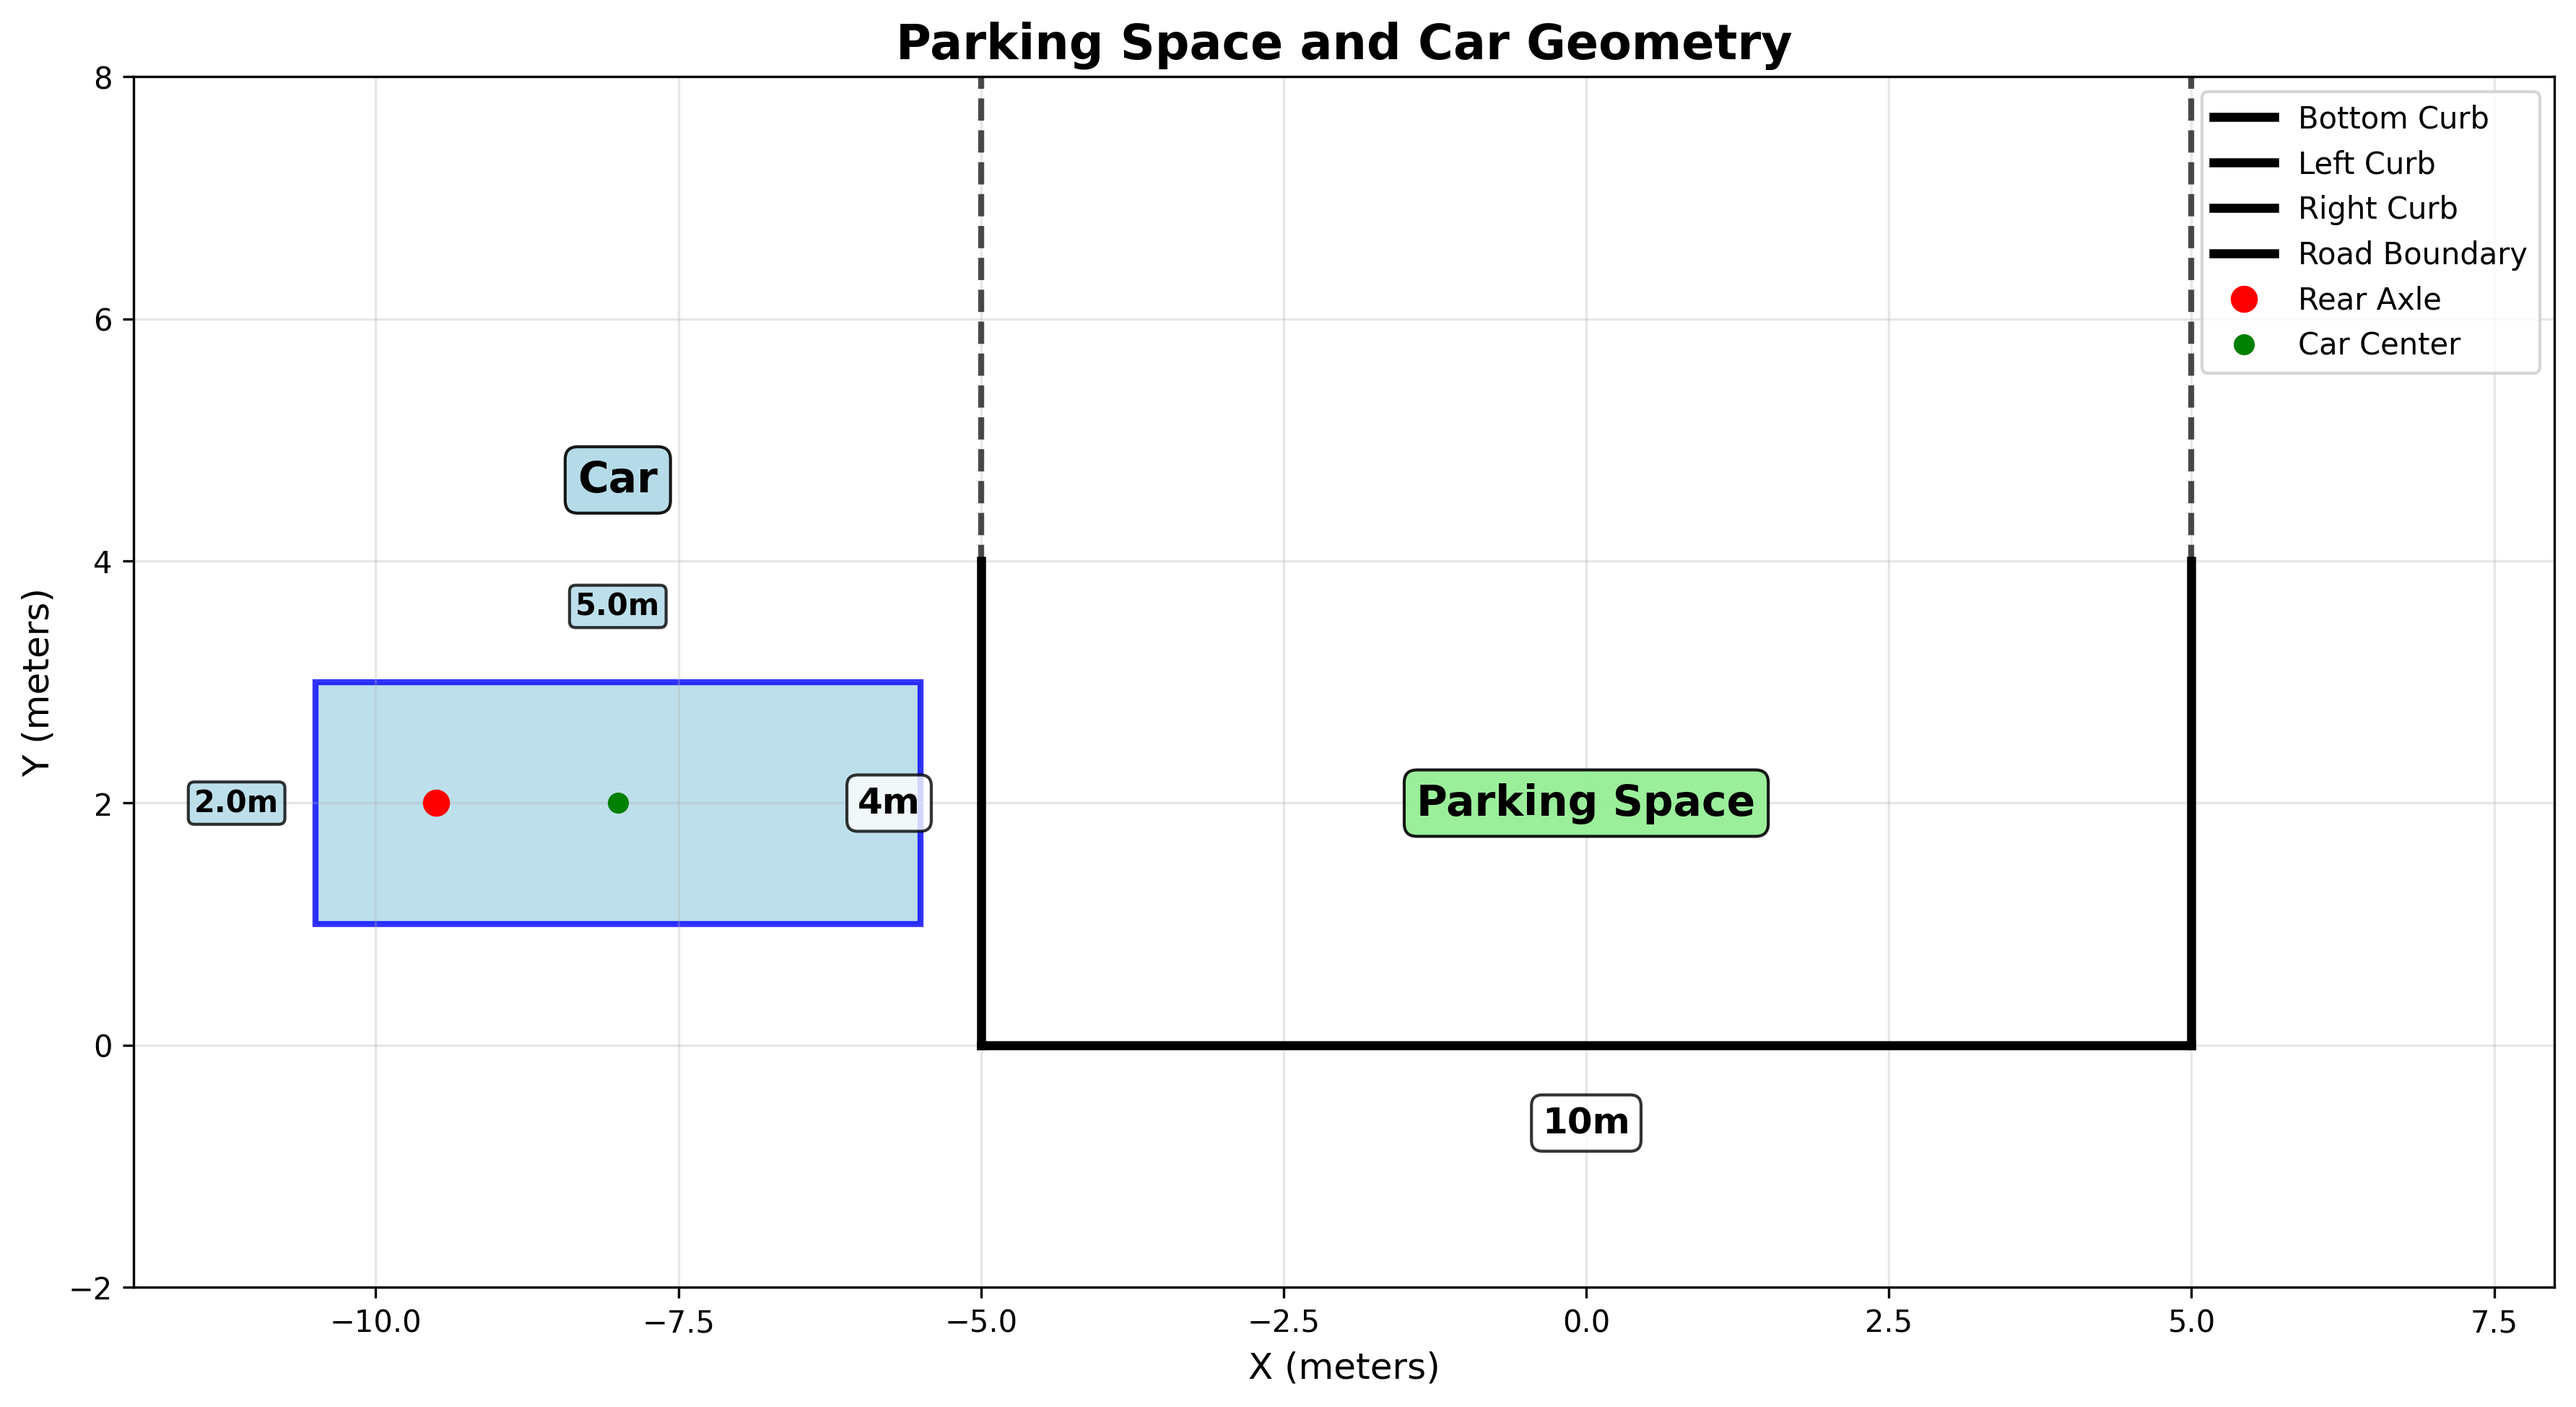
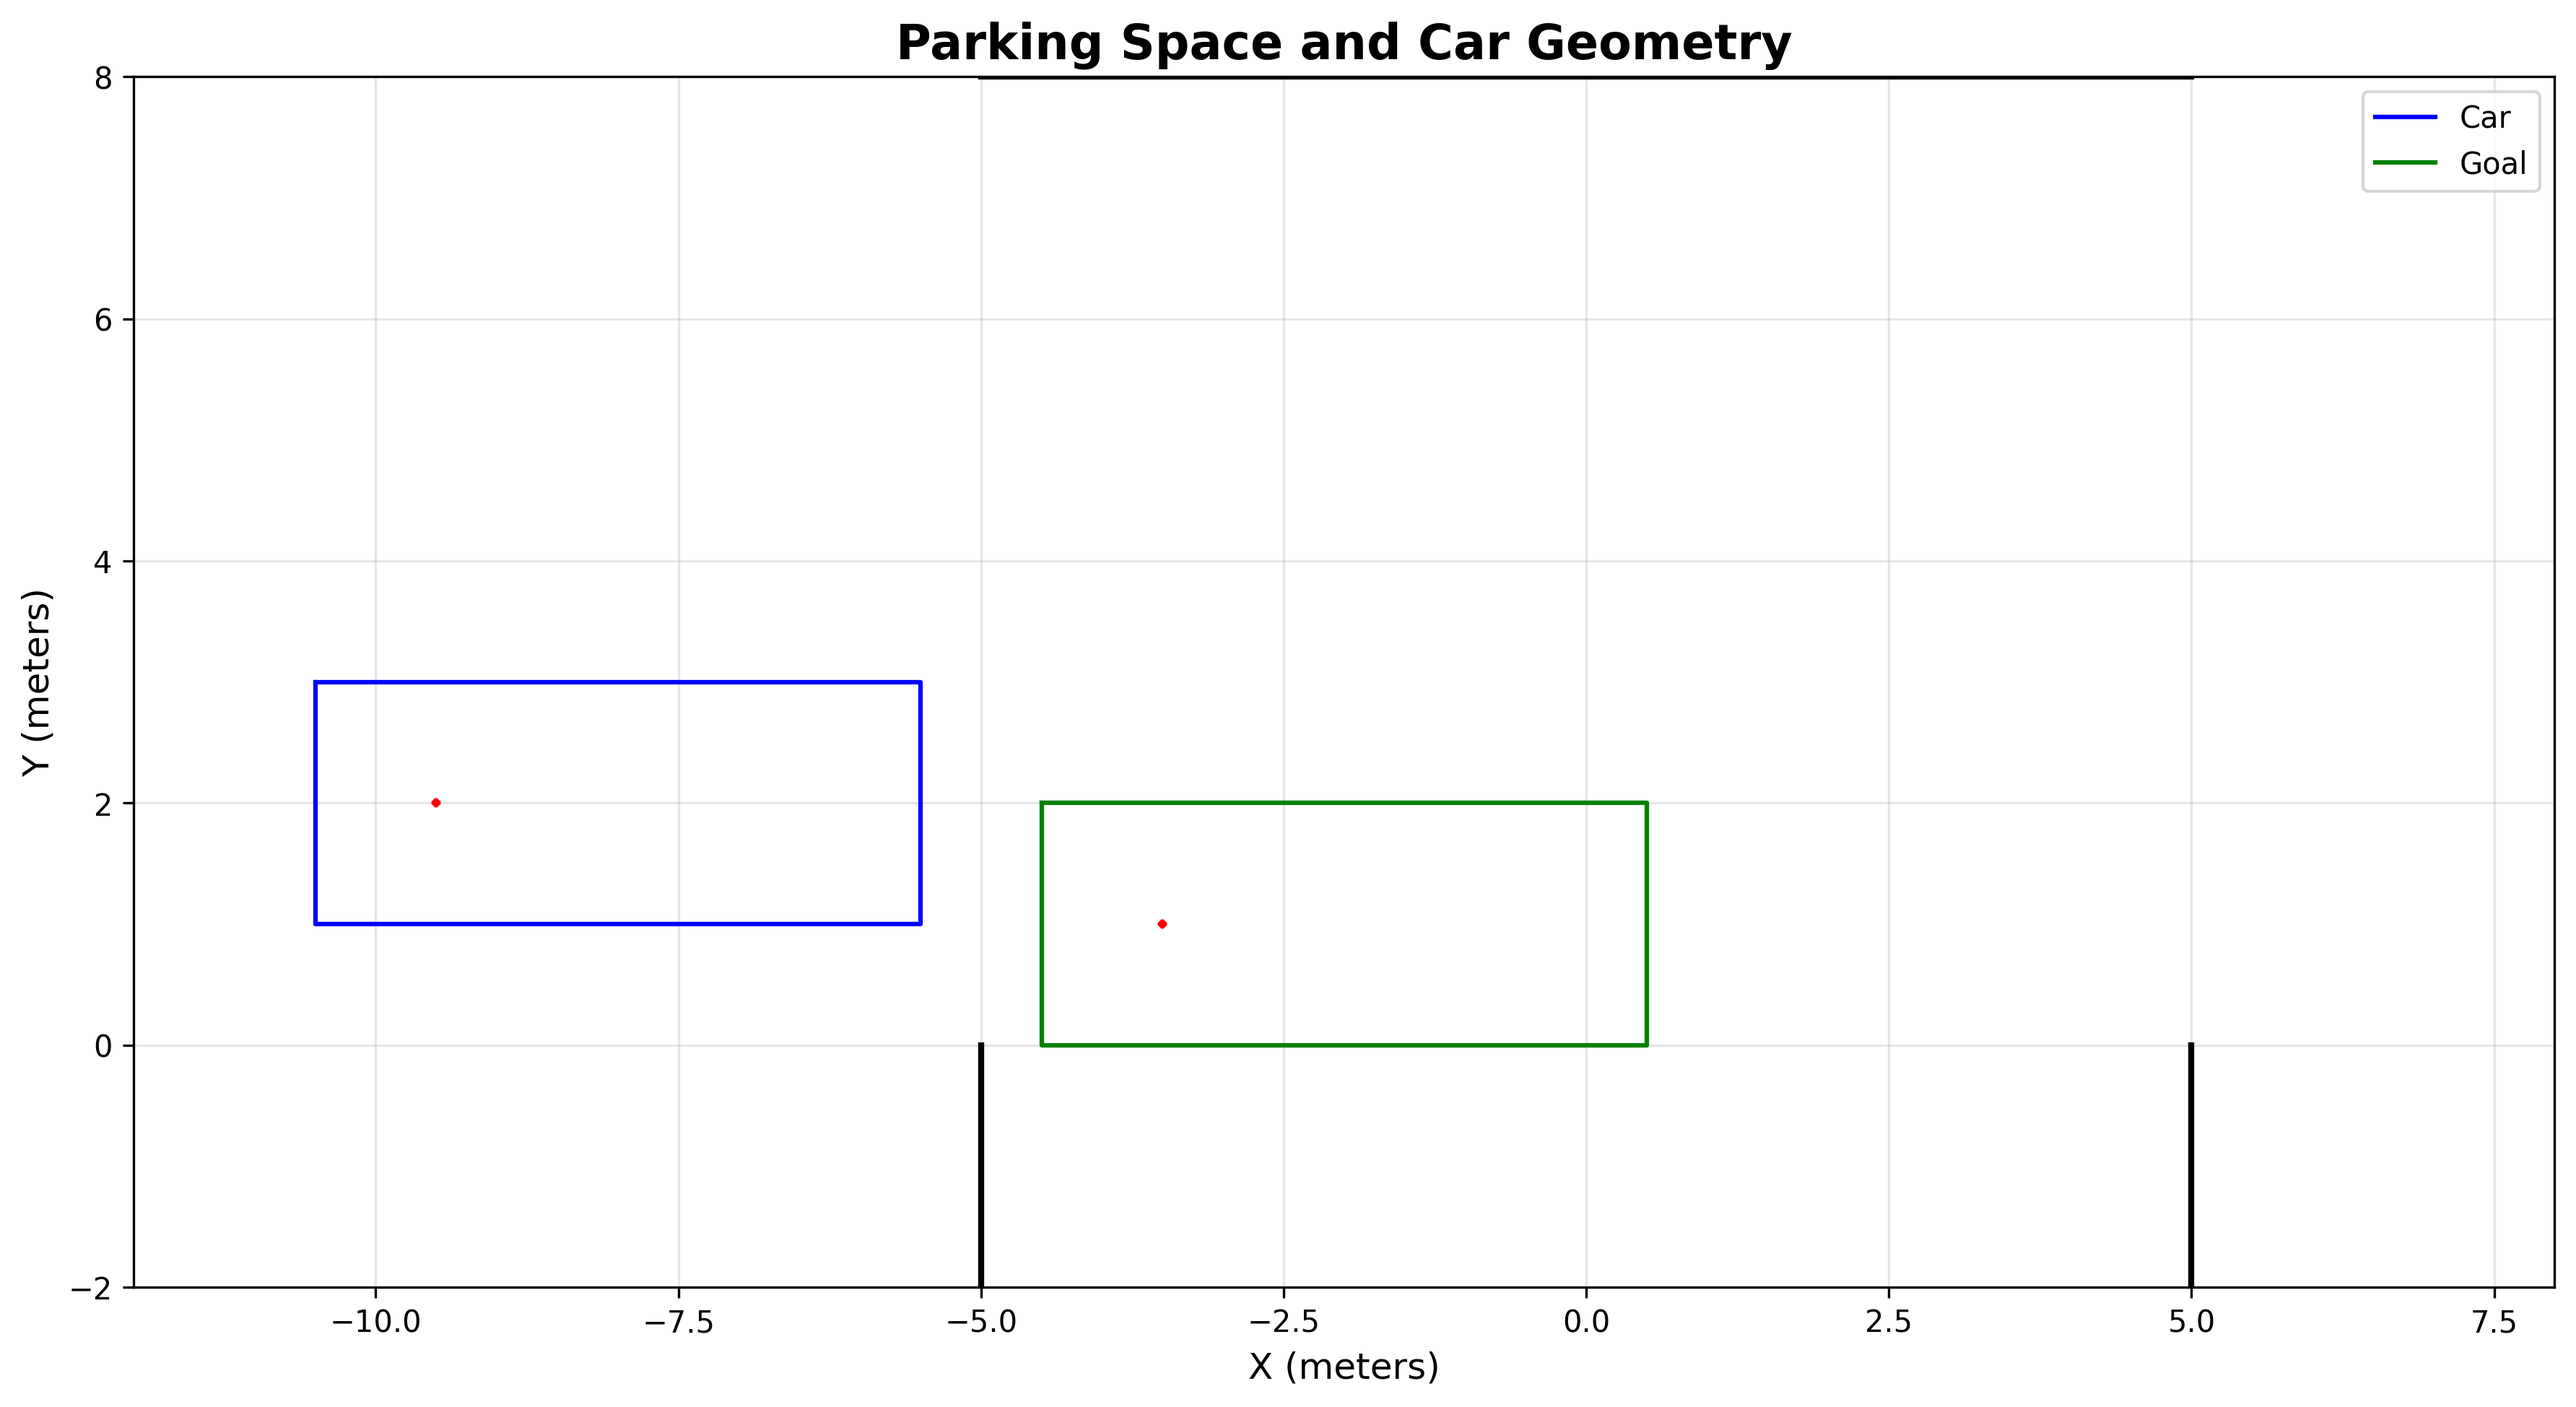
Fix parking diagram to use existing drawing methods
- Remove custom matplotlib drawing code
- Use parking.draw(ax) method from ParkingSpace class
- Use car_state.draw(ax, state='Car', color='blue') method from CarState class
- Add goal state using the same drawing method
- Follow the pattern from bfs_reference_test.py
- Much cleaner and consistent with the codebase

Changed region(s): [[0.0622, 0.4002, 0.8711, 0.8312], [0.84, 0.0616, 0.9955, 0.2771], [0.2178, 0.3079, 0.28, 0.3694]]

diff --git a/scripts/create_parking_diagram.py b/scripts/create_parking_diagram.py
@@ -4,13 +4,11 @@ Create a simple parking space diagram for the README.
 """
 
 import matplotlib.pyplot as plt
-import matplotlib.patches as patches
-from matplotlib.patches import Rectangle, FancyBboxPatch
 import numpy as np
 from src import CarSpecs, CarState, ParkingSpace, Point
 
 def create_parking_diagram():
-    """Create a simple parking space diagram"""
+    """Create a simple parking space diagram using existing drawing methods"""
     fig, ax = plt.subplots(1, 1, figsize=(12, 8))
     
     # Create car specs
@@ -22,86 +20,6 @@ def create_parking_diagram():
     # Create parking space
     parking = ParkingSpace(start=Point(-5, 0), width=4, length=10)
     
-    # Draw parking space boundaries
-    # Bottom curb (parking space boundary)
-    ax.plot([parking.start.x, parking.start.x + parking.length], 
-            [parking.start.y, parking.start.y], 'k-', linewidth=3, label='Bottom Curb')
-    
-    # Left curb
-    ax.plot([parking.start.x, parking.start.x], 
-            [parking.start.y, parking.start.y + parking.width], 'k-', linewidth=3, label='Left Curb')
-    
-    # Right curb
-    ax.plot([parking.start.x + parking.length, parking.start.x + parking.length], 
-            [parking.start.y, parking.start.y + parking.width], 'k-', linewidth=3, label='Right Curb')
-    
-    # Top curb (road boundary)
-    ax.plot([parking.start.x - parking.baseline_left, parking.start.x + parking.length + parking.baseline_right], 
-            [parking.start.y + parking.width + parking.road_width, parking.start.y + parking.width + parking.road_width], 
-            'k-', linewidth=3, label='Road Boundary')
-    
-    # Extended baseline segments
-    ax.plot([parking.start.x - parking.baseline_left, parking.start.x - parking.baseline_left], 
-            [parking.start.y, parking.start.y + parking.width + parking.road_width], 'k--', linewidth=2, alpha=0.7)
-    ax.plot([parking.start.x + parking.length + parking.baseline_right, parking.start.x + parking.length + parking.baseline_right], 
-            [parking.start.y, parking.start.y + parking.width + parking.road_width], 'k--', linewidth=2, alpha=0.7)
-    
-    # Draw car as rectangle
-    car_corners = car_state.get_corners()
-    car_x = [corner.x for corner in car_corners]
-    car_y = [corner.y for corner in car_corners]
-    
-    # Create car rectangle
-    car_rect = patches.Polygon(list(zip(car_x, car_y)), 
-                              facecolor='lightblue', 
-                              edgecolor='blue', 
-                              linewidth=2,
-                              alpha=0.8)
-    ax.add_patch(car_rect)
-    
-    # Draw rear axle point
-    rear_axle = car_state.rear_axle_point()
-    ax.plot(rear_axle.x, rear_axle.y, 'ro', markersize=8, label='Rear Axle')
-    
-    # Add car center point
-    ax.plot(car_state.center.x, car_state.center.y, 'go', markersize=6, label='Car Center')
-    
-    # Add dimensions
-    # Parking space dimensions
-    ax.annotate(f'{parking.length}m', 
-                xy=(parking.start.x + parking.length/2, parking.start.y - 0.5),
-                xytext=(parking.start.x + parking.length/2, parking.start.y - 0.5),
-                ha='center', va='top', fontsize=12, fontweight='bold',
-                bbox=dict(boxstyle="round,pad=0.3", facecolor="white", alpha=0.8))
-    
-    ax.annotate(f'{parking.width}m', 
-                xy=(parking.start.x - 0.5, parking.start.y + parking.width/2),
-                xytext=(parking.start.x - 0.5, parking.start.y + parking.width/2),
-                ha='right', va='center', fontsize=12, fontweight='bold',
-                bbox=dict(boxstyle="round,pad=0.3", facecolor="white", alpha=0.8))
-    
-    # Car dimensions
-    ax.annotate(f'{car_specs.length}m', 
-                xy=(car_state.center.x, car_state.center.y + car_specs.width/2 + 0.5),
-                xytext=(car_state.center.x, car_state.center.y + car_specs.width/2 + 0.5),
-                ha='center', va='bottom', fontsize=10, fontweight='bold',
-                bbox=dict(boxstyle="round,pad=0.2", facecolor="lightblue", alpha=0.8))
-    
-    ax.annotate(f'{car_specs.width}m', 
-                xy=(car_state.center.x - car_specs.length/2 - 0.3, car_state.center.y),
-                xytext=(car_state.center.x - car_specs.length/2 - 0.3, car_state.center.y),
-                ha='right', va='center', fontsize=10, fontweight='bold',
-                bbox=dict(boxstyle="round,pad=0.2", facecolor="lightblue", alpha=0.8))
-    
-    # Add labels
-    ax.text(car_state.center.x, car_state.center.y + car_specs.width/2 + 1.5, 
-            'Car', ha='center', va='bottom', fontsize=14, fontweight='bold',
-            bbox=dict(boxstyle="round,pad=0.3", facecolor="lightblue", alpha=0.9))
-    
-    ax.text(parking.start.x + parking.length/2, parking.start.y + parking.width/2, 
-            'Parking Space', ha='center', va='center', fontsize=14, fontweight='bold',
-            bbox=dict(boxstyle="round,pad=0.3", facecolor="lightgreen", alpha=0.9))
-    
     # Set plot properties
     ax.set_xlim(-12, 8)
     ax.set_ylim(-2, 8)
@@ -110,6 +28,16 @@ def create_parking_diagram():
     ax.set_xlabel('X (meters)', fontsize=12)
     ax.set_ylabel('Y (meters)', fontsize=12)
     ax.set_title('Parking Space and Car Geometry', fontsize=16, fontweight='bold')
+    
+    # Draw parking space using existing method
+    parking.draw(ax)
+    
+    # Draw car using existing method
+    car_state.draw(ax, state="Car", color="blue")
+    
+    # Add a goal state inside the parking space
+    goal_state = CarState(specs=car_specs, orientation=0.0, center=Point(-2, 1))
+    goal_state.draw(ax, state="Goal", color="green")
     
     # Add legend
     ax.legend(loc='upper right', fontsize=10)
